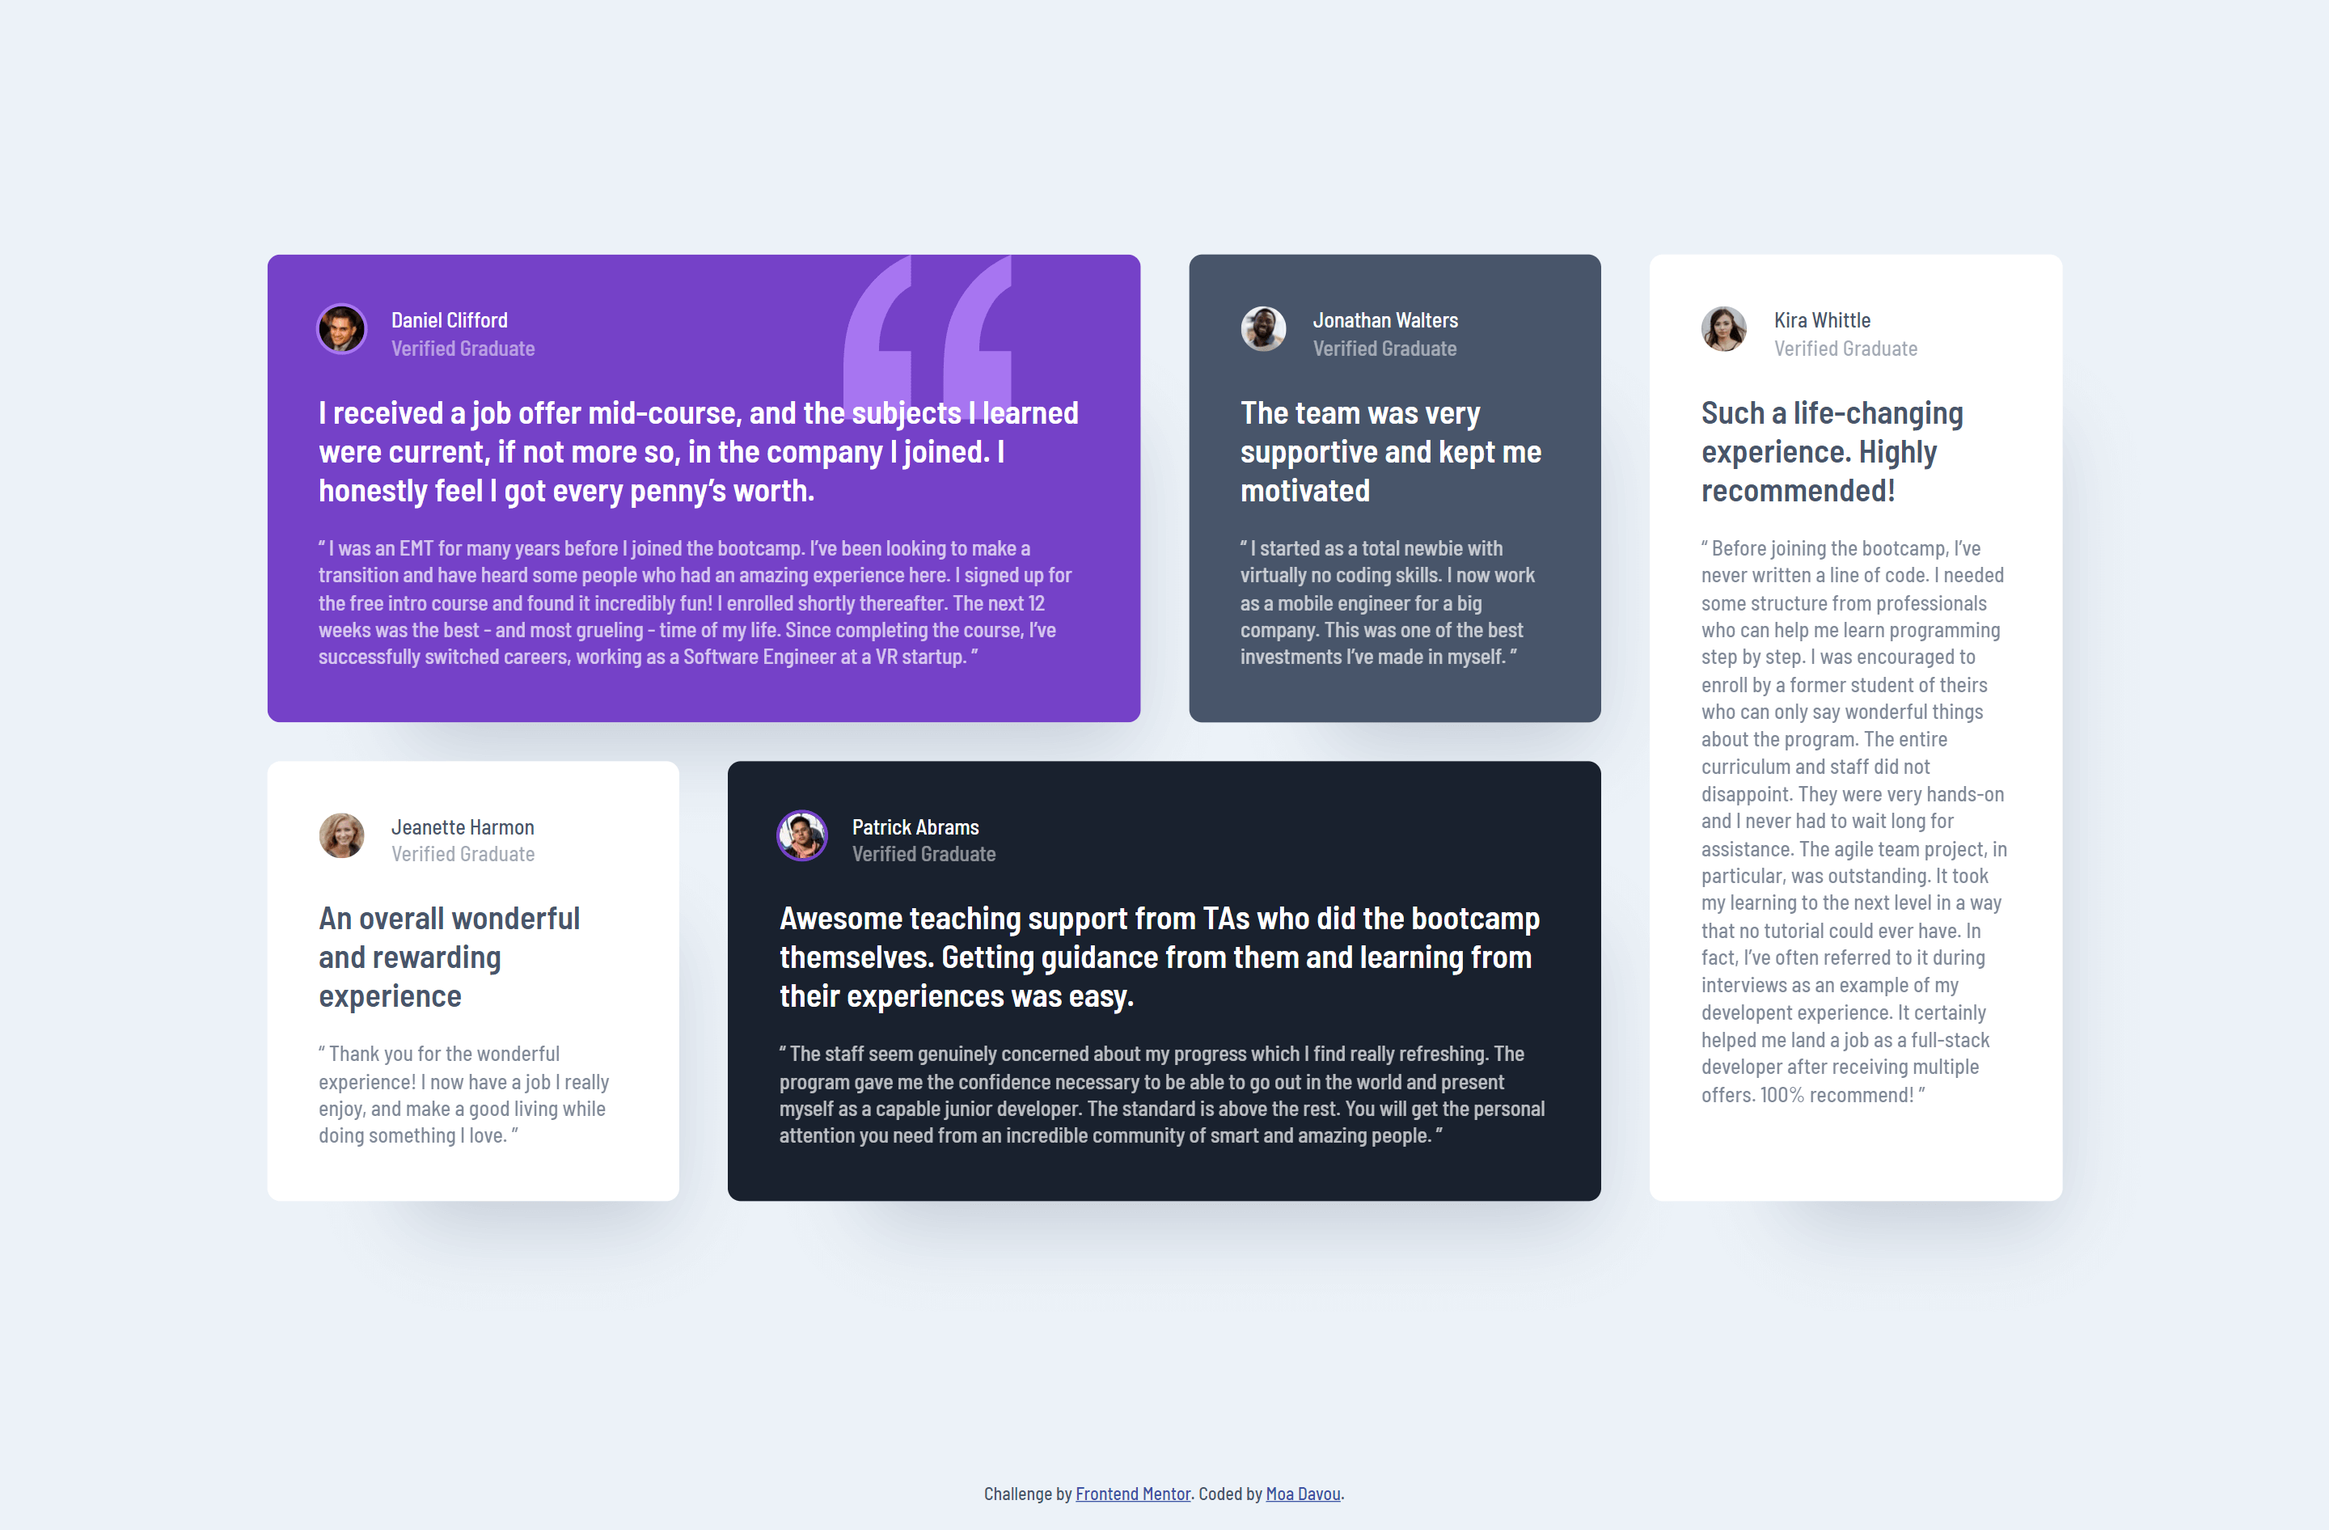
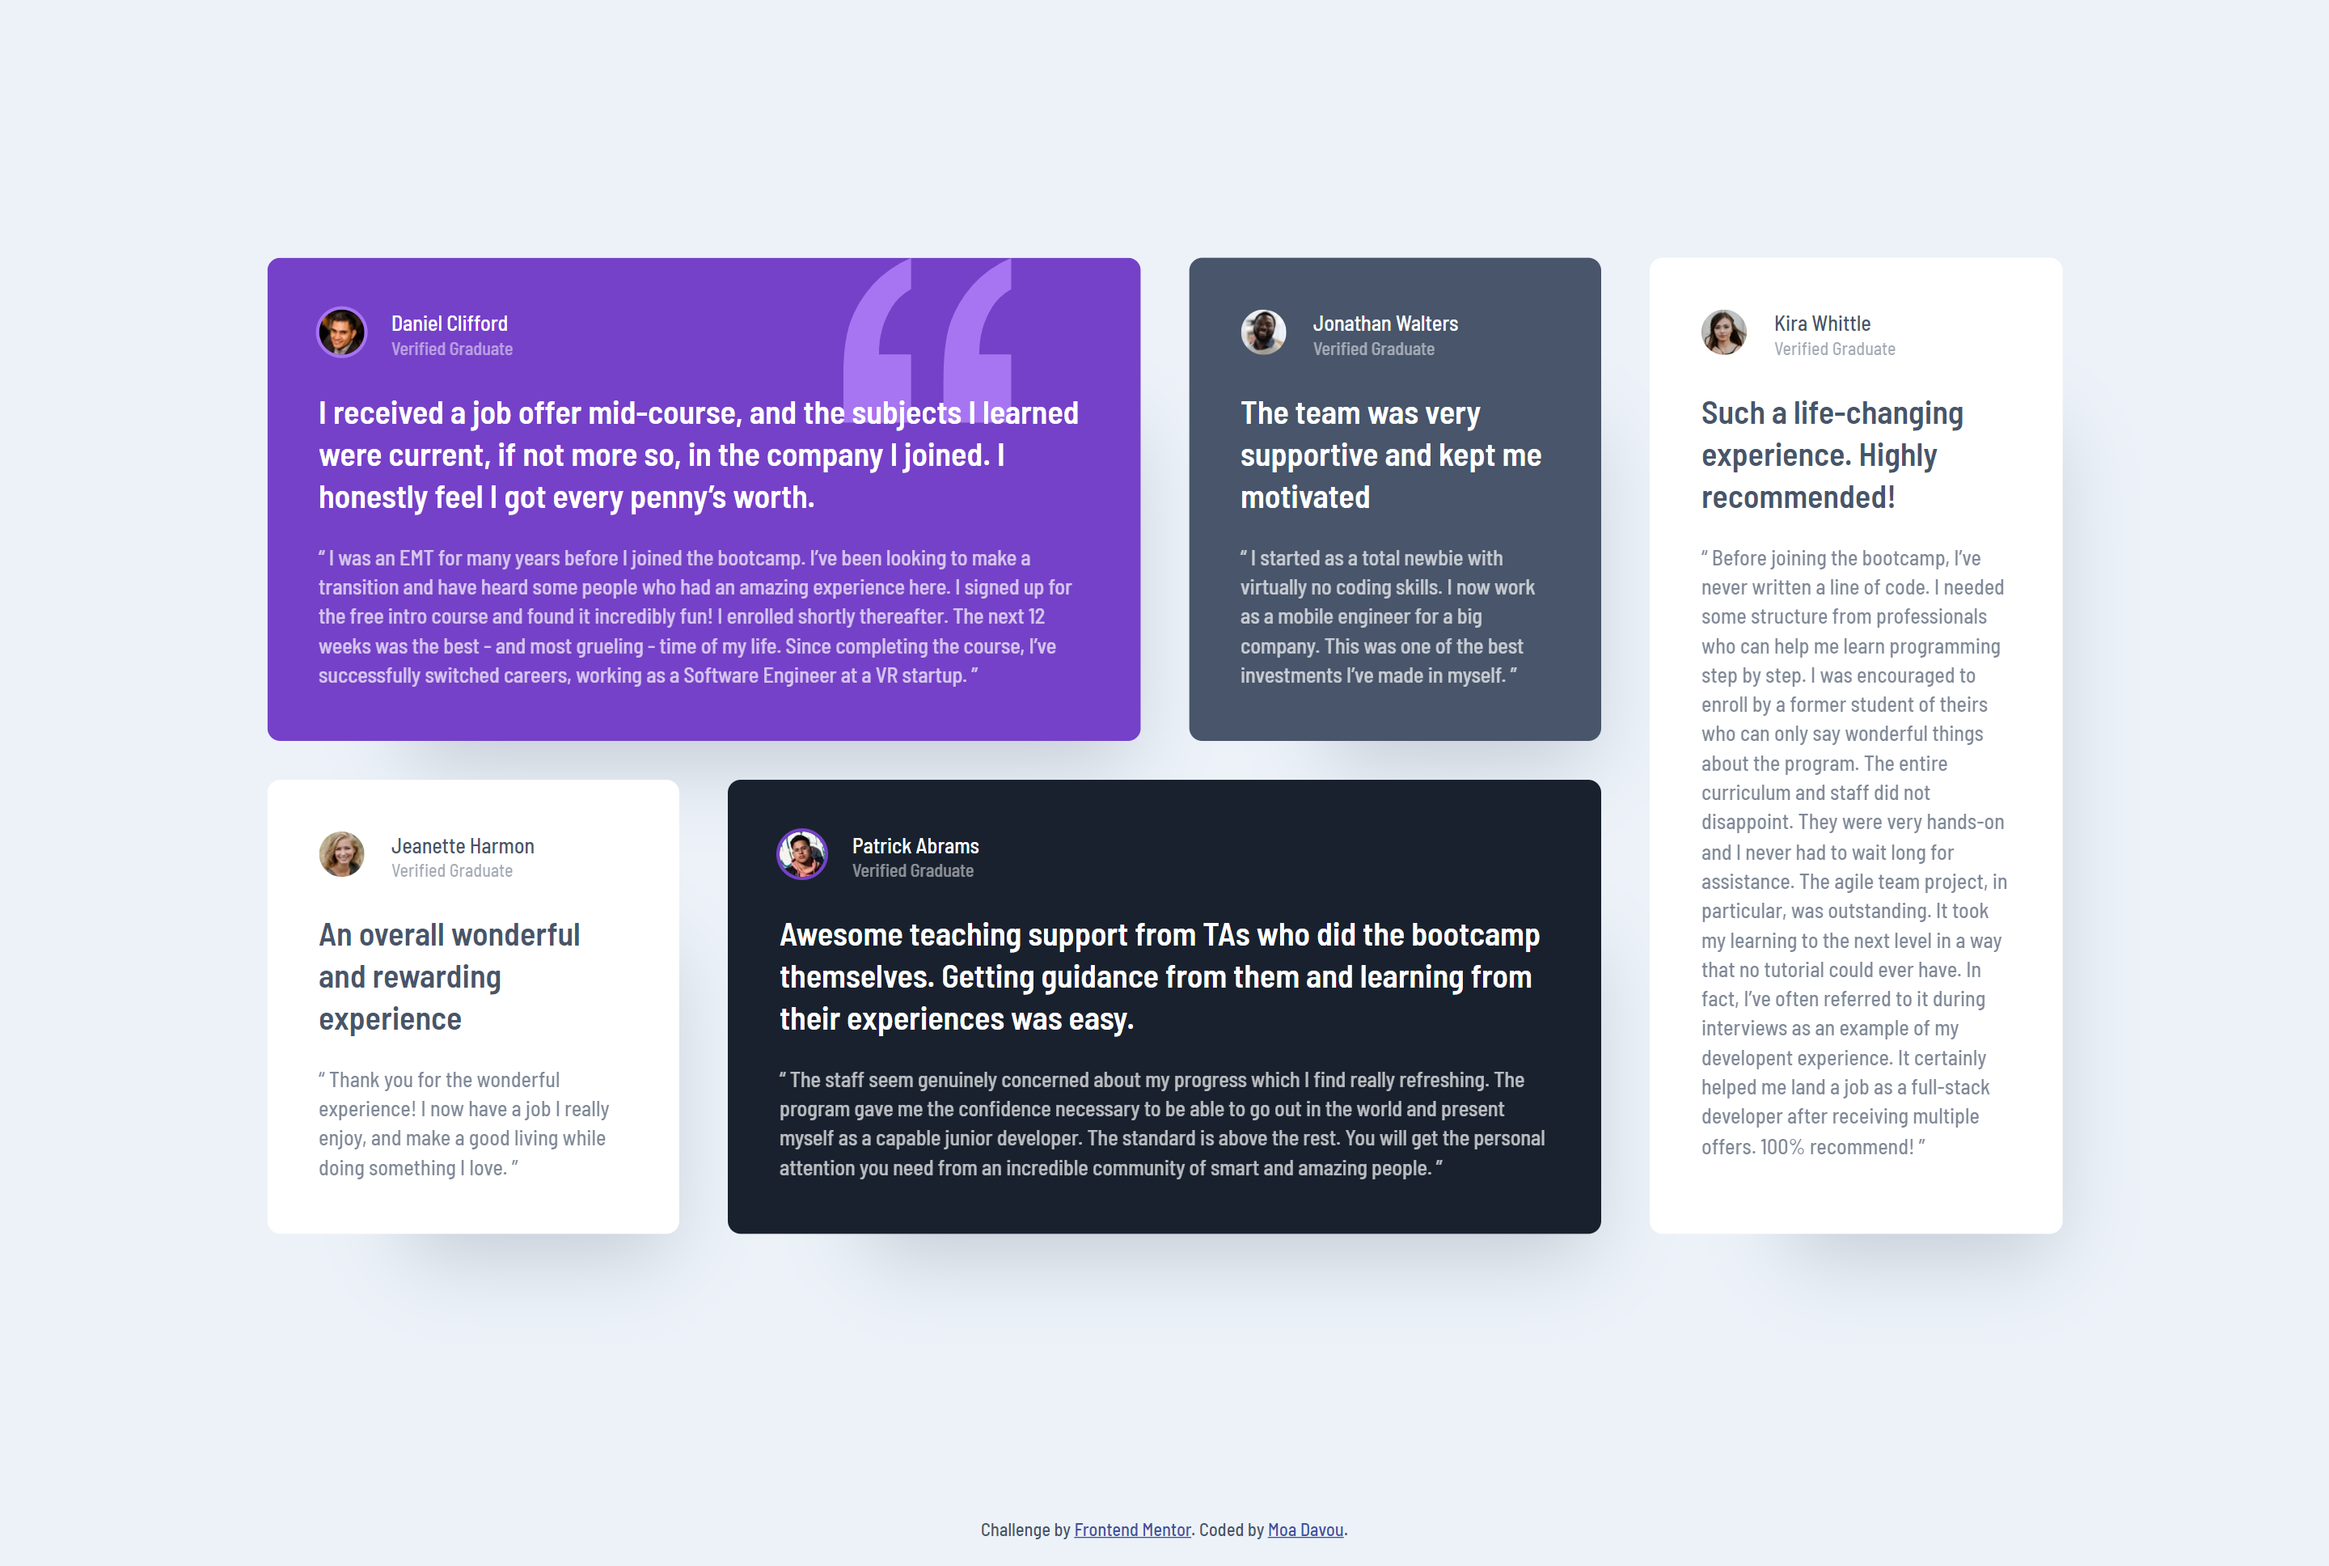
Design updates
I received the Figma file for this project and updated the styles accordingly.

diff --git a/style.css b/style.css
@@ -106,6 +106,10 @@ h6 {
   font-size: var(--fs-l);
 }
 
+:where(.flow > :not(:first-child)) {
+  margin-top: var(--flow-spacer, 1.125em);
+}
+
 .visually-hidden {
   clip: rect(0 0 0 0);
   clip-path: inset(50%);
@@ -116,11 +120,8 @@ h6 {
   width: 1px;
 }
 
-:where(.flow > :not(:first-child)) {
-  margin-top: var(--flow-spacer, 1.125em);
-}
-
 /* General styling */
+
 body {
   background-color: var(--clr-neutral-200);
   font-size: var(--fs-m);
@@ -163,7 +164,7 @@ main {
 .card-user img {
   width: 28px;
   height: 28px;
-  border-radius: 50%;
+  border-radius: 100%;
   outline: 2px solid var(--img-outline);
 }
 
@@ -180,18 +181,20 @@ main {
 }
 
 .card-user__verified {
+  font-size: var(--fs-s);
   opacity: 50%;
 }
 
 .quote-header {
   font-size: var(--fs-l);
   font-weight: var(--fw-bold);
-  line-height: 1.2;
-  margin-bottom: 1.25em;
+  margin-bottom: 1rem;
 }
 
 .quote-body {
   opacity: 70%;
+  line-height: 1.4;
+  margin-right: 1rem;
 }
 
 @media (min-width: 60em) {
@@ -214,15 +217,15 @@ main {
     grid-row: 1 / span 2;
   }
 
-  .quote-header {
-    margin-bottom: 0.8em;
+  .quote-body {
+    margin-right: 0;
   }
 }
 
 /* Attribution */
 
 .attribution {
-  font-size: 11px;
+  font-size: 0.7rem;
   text-align: center;
   margin: 1rem;
 }

diff --git a/index.html b/index.html
@@ -22,7 +22,7 @@
 
   <body>
     <main>
-      <h1 class="visually-hidden">Testimonials grid section</h1>
+      <h1 class="visually-hidden">Testimonials</h1>
 
       <div class="container">
         <div class="card | flow bg-primary-violet text-neutral-100">

diff --git a/README.md b/README.md
@@ -36,8 +36,7 @@ Users should be able to:
 ### Built with
 
 - Semantic HTML5 markup
-- CSS custom properties
-- CSS utility classes
+- CUBE CSS
 - Flexbox
 - CSS Grid
 - Mobile-first workflow
